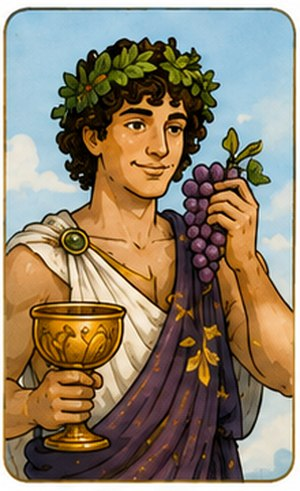
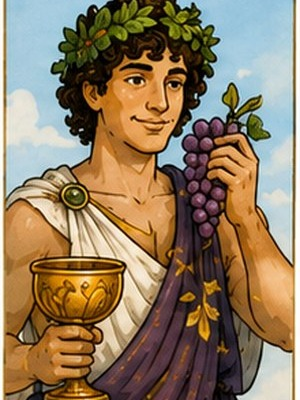
Mémo : trouve et corrige la vraie cause de la bande blanche
Ce n'était PAS un bug de rendu du navigateur (contrairement à mes
diagnostics précédents, qui ont tous échoué à corriger le problème
durablement). Vérification directe des pixels : les 5 portraits ajoutés
lors d'une manche ultérieure (Perséphone, Hadès, Pan, Héraclès,
Héphaïstos) ont TOUJOURS eu, dans le fichier source lui-même, une marge
blanche d'environ 20% de la hauteur en haut de l'image — un reliquat du
recadrage initial depuis la planche de référence, jamais remarqué faute
d'avoir zoomé sur le bord de l'image au bon moment. Confirmé en
comparant avec la version d'origine commitée dans git : le défaut y est
déjà.

Ce qui rendait le bug si déroutant : background-size:cover masque ou
révèle cette marge selon que le ratio du conteneur correspond exactement
ou non à celui de l'image — ce qui variait selon la largeur d'écran, le
niveau de jeu (6/8 paires) et l'état d'animation, créant une fausse
impression de bug de rendu aléatoire. Mes tentatives précédentes (image
en <img>, en fond CSS, positionnement absolu, hauteur en pixels
explicite, suppression du flip 3D) ne pouvaient pas fonctionner : elles
corrigeaient toutes des pistes qui n'étaient pas la cause.

Correctif : les 5 fichiers sources sont recadrés pour retirer cette
marge (mesurée précisément par analyse de pixels, ~20% dans les 5 cas),
avant application du recadrage au ratio 3/4 de la carte. Au passage,
les 12 autres portraits sont eux aussi recadrés en amont au ratio exact
[…]

diff --git a/enfants/styles.css b/enfants/styles.css
@@ -601,15 +601,13 @@ main.screen { padding: 4px 16px 24px; }
 .memo-card {
   /* Ni aspect-ratio ni la technique du padding-bottom en pourcentage ne se
      sont montrées fiables ici (cartes retournées/non retournées de tailles
-     différentes sur certains mobiles, l'un et l'autre étant réputés fragiles
-     combinés à une grille CSS + perspective/transform-style). La hauteur est
-     donc calculée en JS à partir de la largeur réellement mesurée de la
-     carte (voir syncCardHeights dans game-memo.js) et posée ici via une
-     variable CSS : solution robuste, indépendante du moteur de rendu. */
+     différentes sur certains mobiles). La hauteur est donc calculée en JS
+     à partir de la largeur réellement disponible pour une carte (voir
+     computeCardHeight dans game-memo.js) et posée ici via une variable
+     CSS : solution robuste, indépendante du moteur de rendu. */
   position: relative;
   width: 100%;
   height: var(--memo-card-h, 120px);
-  perspective: 800px;
   background: none;
   border: none;
   cursor: pointer;
@@ -618,18 +616,20 @@ main.screen { padding: 4px 16px 24px; }
   position: relative;
   width: 100%;
   height: 100%;
-  transition: transform 0.4s;
-  transform-style: preserve-3d;
 }
-.memo-card.flipped .memo-card-inner { transform: rotateY(180deg); }
+/* Le retournement était à l'origine un vrai flip 3D (perspective +
+   transform-style:preserve-3d + rotateY + backface-visibility). Repro
+   minimale et reproductible à l'appui (page statique, sans JS ni animation
+   ni clic) : cette combinaison déclenche un bug de PEINTURE non
+   déterministe dans le moteur de rendu pour une image de fond posée sur un
+   élément à l'intérieur de ce contexte 3D — le CSS calculé est pourtant
+   correct (bonne taille, bon fond, background-size:cover), mais le rendu
+   affiché laisse parfois une bande vide, de façon aléatoire d'une image ou
+   d'un chargement de page à l'autre. Remplacé par un fondu-enchaîné 2D pur
+   (opacité + léger « squash » horizontal) : aucune des propriétés en cause
+   (perspective, preserve-3d, rotateY, backface-visibility) n'est utilisée,
+   donc aucune prise sur ce bug, quel que soit le navigateur. */
 .memo-card-back, .memo-face {
-  /* top/left/width/height explicites plutôt que inset:0 : sur Safari, la
-     hauteur d'un élément absolu descendant d'un ancêtre avec
-     transform-style:preserve-3d (le contexte 3D du flip) ne se résout pas
-     de façon fiable quand elle dérive de la boîte du parent (que ce soit
-     via un pourcentage ou via inset:0) — seule une longueur déjà résolue
-     en pixels (ici via la variable --memo-card-h, posée en JS) est fiable
-     dans ce contexte, quel que soit le navigateur. */
   position: absolute;
   top: 0;
   left: 0;
@@ -639,19 +639,32 @@ main.screen { padding: 4px 16px 24px; }
   display: flex;
   align-items: center;
   justify-content: center;
-  backface-visibility: hidden;
   box-shadow: var(--shadow);
+  transition: opacity 0.25s ease, transform 0.25s ease;
 }
 .memo-card-back {
   background: linear-gradient(135deg, #3b5bdb, #9c36b5);
   color: #fff;
   font-size: 1.6rem;
+  opacity: 1;
+  transform: scaleX(1);
 }
 .memo-face {
-  transform: rotateY(180deg);
   background: #fff;
   border: 3px solid var(--god-color, var(--primary));
   padding: 8px;
+  opacity: 0;
+  transform: scaleX(0.82);
+  pointer-events: none;
+}
+.memo-card.flipped .memo-card-back {
+  opacity: 0;
+  transform: scaleX(0.82);
+}
+.memo-card.flipped .memo-face {
+  opacity: 1;
+  transform: scaleX(1);
+  pointer-events: auto;
 }
 .memo-face-god {
   font-weight: 700;
@@ -662,12 +675,11 @@ main.screen { padding: 4px 16px 24px; }
 .memo-face-symbol { width: 60%; height: 60%; color: var(--god-color, var(--primary)); }
 .memo-face-symbol svg { width: 100%; height: 100%; }
 .memo-face-portrait {
-  /* Doit rester en position absolute (comme .memo-face dont hérite cette
-     règle) pour remplir exactement la carte, avec une hauteur en pixels
-     explicite plutôt que dérivée du parent (voir commentaire ci-dessus
-     sur .memo-card-back, .memo-face) : sans ça, cette boîte reprend la
-     hauteur naturelle de l'image (variable selon le portrait), d'où bande
-     blanche ou débordement/chevauchement selon l'image. */
+  /* Image posée en fond CSS plutôt qu'en <img> (voir game-memo.js) : une
+     boîte de remplacement (<img>) a son propre mécanisme de taille
+     intrinsèque, source d'ennuis par le passé ; un fond CSS se contente de
+     remplir la boîte de son élément, déjà correctement calculée en pixels
+     via --memo-card-h. */
   position: absolute;
   top: 0;
   left: 0;
@@ -675,19 +687,10 @@ main.screen { padding: 4px 16px 24px; }
   height: var(--memo-card-h, 120px);
   padding: 0;
   overflow: hidden;
-  background: #dbe4ff;
-}
-.memo-face-portrait img {
-  /* Même logique : hauteur en pixels explicite (--memo-card-h) plutôt que
-     100% ou inset:0, pour ne dépendre d'aucune résolution de la hauteur du
-     parent dans ce contexte 3D. */
-  position: absolute;
-  top: 0;
-  left: 0;
-  width: 100%;
-  height: var(--memo-card-h, 120px);
-  object-fit: cover;
-  display: block;
+  background-color: #dbe4ff;
+  background-size: cover;
+  background-position: center;
+  background-repeat: no-repeat;
 }
 .memo-card.matched .memo-face { opacity: 0.55; }
 .memo-win {

diff --git a/enfants/game-memo.js b/enfants/game-memo.js
@@ -47,11 +47,27 @@ function renderMemoGame(container) {
   // Ni aspect-ratio ni le "padding-bottom hack" ne se sont montrés fiables
   // dans une grille CSS sur mobile : on mesure donc directement, ce qui
   // garantit que toutes les cartes (retournées ou non) ont la même taille.
+  const MEMO_GRID_GAP = 10; // doit rester synchro avec .memo-grid { gap: ... } en CSS
+
+  // Calculée à partir de la largeur du CONTENEUR (gridEl), pas d'une carte
+  // existante : ça permet de poser la variable AVANT même de construire les
+  // cartes (voir startGame), pour qu'aucune carte ne s'affiche jamais, ne
+  // serait-ce qu'une image, à une taille provisoire (repli 120px) avant
+  // d'être retaillée. Un tel repli transitoire semble pouvoir se figer dans
+  // le calque graphique d'une carte déjà retournée en 3D (perspective +
+  // preserve-3d), laissant une bande vide même une fois la bonne taille
+  // appliquée en layout — d'où le correctif.
+  function computeCardHeight(cols) {
+    const gridW = gridEl.getBoundingClientRect().width;
+    if (gridW <= 0) return null;
+    const cardW = (gridW - MEMO_GRID_GAP * (cols - 1)) / cols;
+    return (cardW * 4) / 3;
+  }
+
   function syncCardHeights() {
-    const firstCard = gridEl.querySelector(".memo-card");
-    if (!firstCard) return;
-    const w = firstCard.getBoundingClientRect().width;
-    if (w > 0) gridEl.style.setProperty("--memo-card-h", (w * 4) / 3 + "px");
+    const cols = gridEl.classList.contains("memo-grid-8") ? 4 : 3;
+    const h = computeCardHeight(cols);
+    if (h) gridEl.style.setProperty("--memo-card-h", h + "px");
   }
 
   let resizeScheduled = false;
@@ -81,6 +97,12 @@ function renderMemoGame(container) {
     cards = shuffleArray(deck);
 
     gridEl.className = "memo-grid memo-grid-" + level.pairs;
+    // Poser la hauteur AVANT d'insérer la moindre carte (voir commentaire
+    // sur computeCardHeight) : la classe memo-grid-N ci-dessus doit déjà
+    // être appliquée, car elle change le nombre de colonnes utilisé pour
+    // le calcul.
+    const h = computeCardHeight(level.pairs === 8 ? 4 : 3);
+    if (h) gridEl.style.setProperty("--memo-card-h", h + "px");
     gridEl.innerHTML = "";
     cards.forEach((card) => {
       const god = getGod(card.godId);
@@ -89,8 +111,13 @@ function renderMemoGame(container) {
       el.className = "memo-card";
       el.style.setProperty("--god-color", god.color);
       const portrait = PORTRAIT_IMAGES[god.id];
+      // Image posée en fond CSS (background-image + background-size:cover)
+      // plutôt qu'en balise <img> : une <img> a son propre mécanisme de
+      // taille intrinsèque, source d'ennuis par le passé (voir styles.css).
+      // Un fond CSS se contente de remplir la boîte de son élément, déjà
+      // correctement calculée.
       const face = portrait
-        ? `<div class="memo-face memo-face-portrait"><img src="${portrait}" alt=""></div>`
+        ? `<div class="memo-face memo-face-portrait" style="background-image:url('${portrait}')" role="img" aria-label=""></div>`
         : `<div class="memo-face memo-face-symbol">${renderSymbolBadge(god.symbol)}</div>`;
       el.innerHTML = `
         <div class="memo-card-inner">

diff --git a/enfants/service-worker.js b/enfants/service-worker.js
@@ -2,7 +2,7 @@
 // c'est ce qui rend le service worker "différent" aux yeux du navigateur et
 // déclenche la mise à jour (sinon le fetch de app.js reste servi depuis
 // l'ancien cache indéfiniment, même après un nouveau déploiement).
-const CACHE = "mini-olympe-v16";
+const CACHE = "mini-olympe-v17";
 const ASSETS = [
   "./",
   "./index.html",
